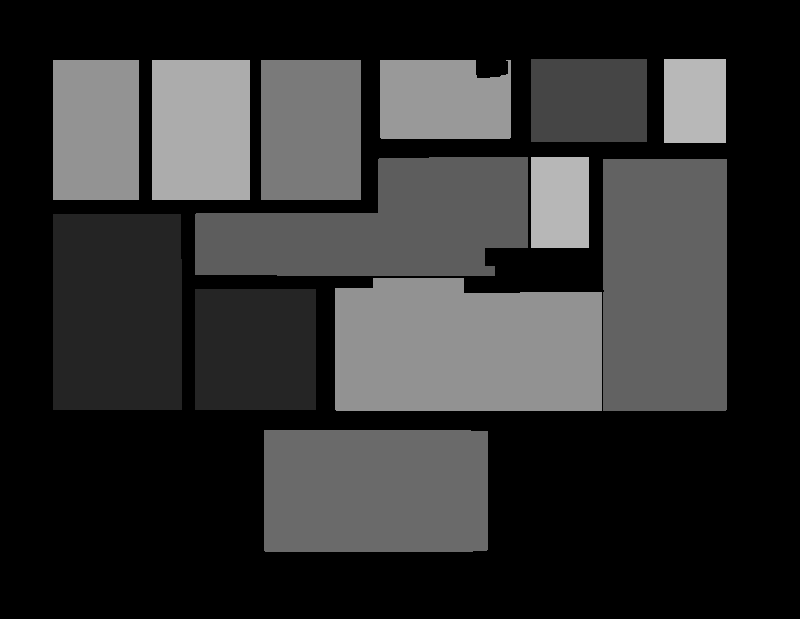
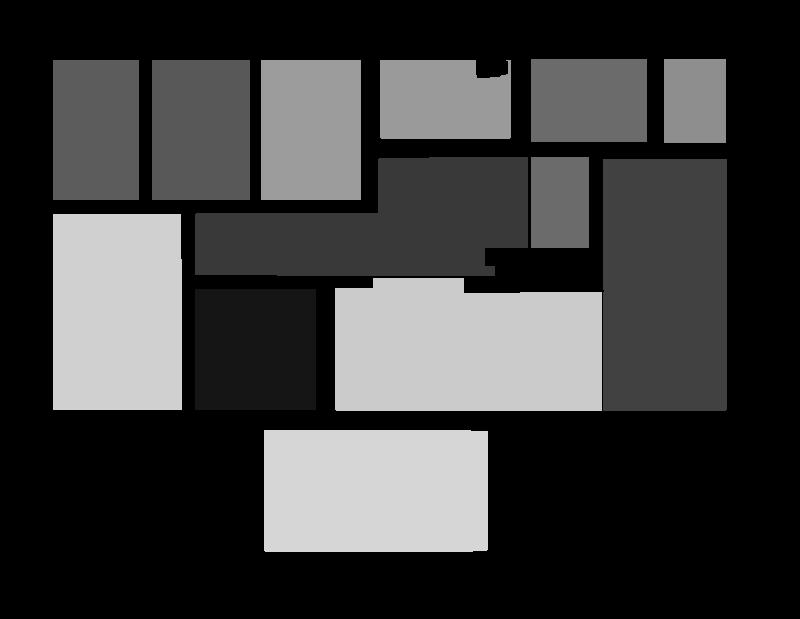
Mudroom to room

diff --git a/floorplan_detector/detector.py b/floorplan_detector/detector.py
@@ -162,7 +162,7 @@ def room_polygon_processing(rooms_polygons, max_base):
             if i < len(predefined_types):
                 room['type'] = predefined_types[i]  
             else:
-                room['type'] = 'mudroom'  
+                room['type'] = 'room'  
     # # if only two rooms, one is living one is bed.
     # if len(processed_rooms) == 2:
     #     processed_rooms[0]['type'] = 'living_room'  
